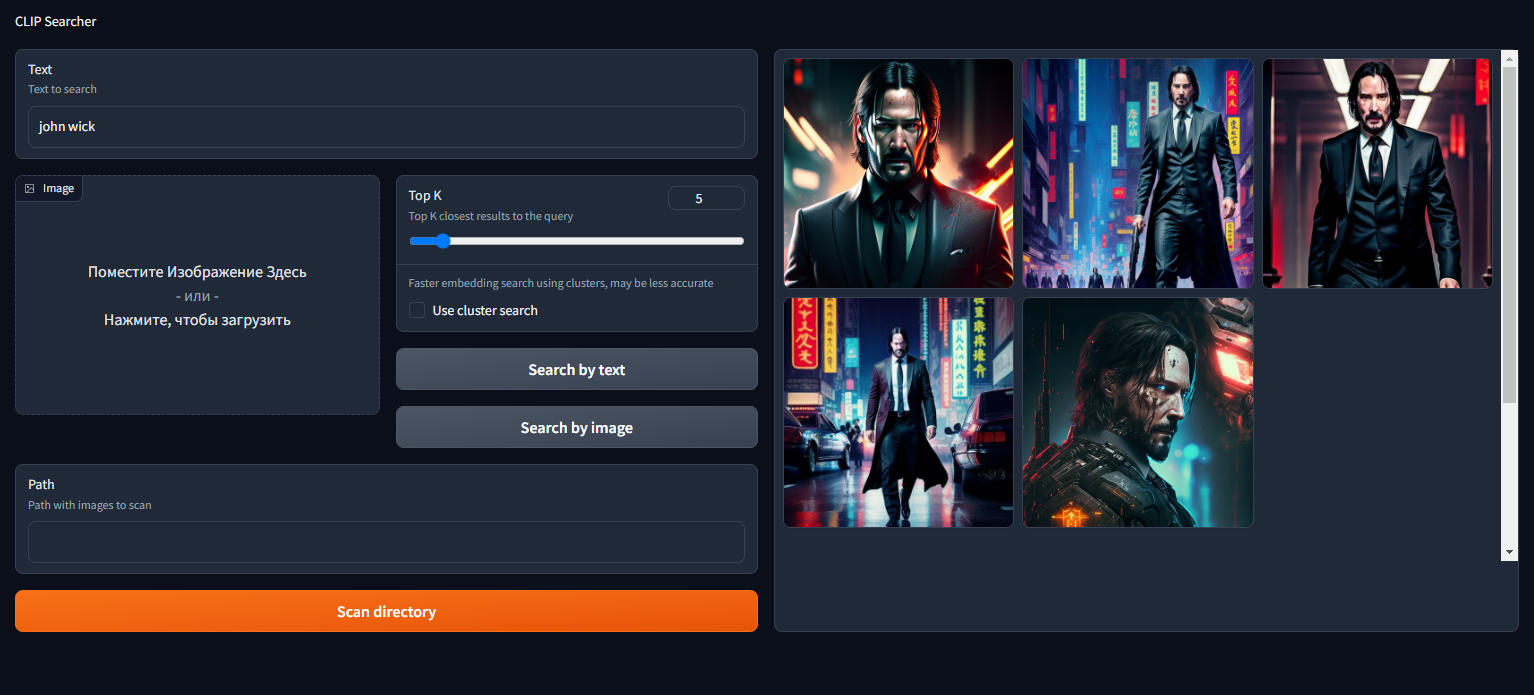
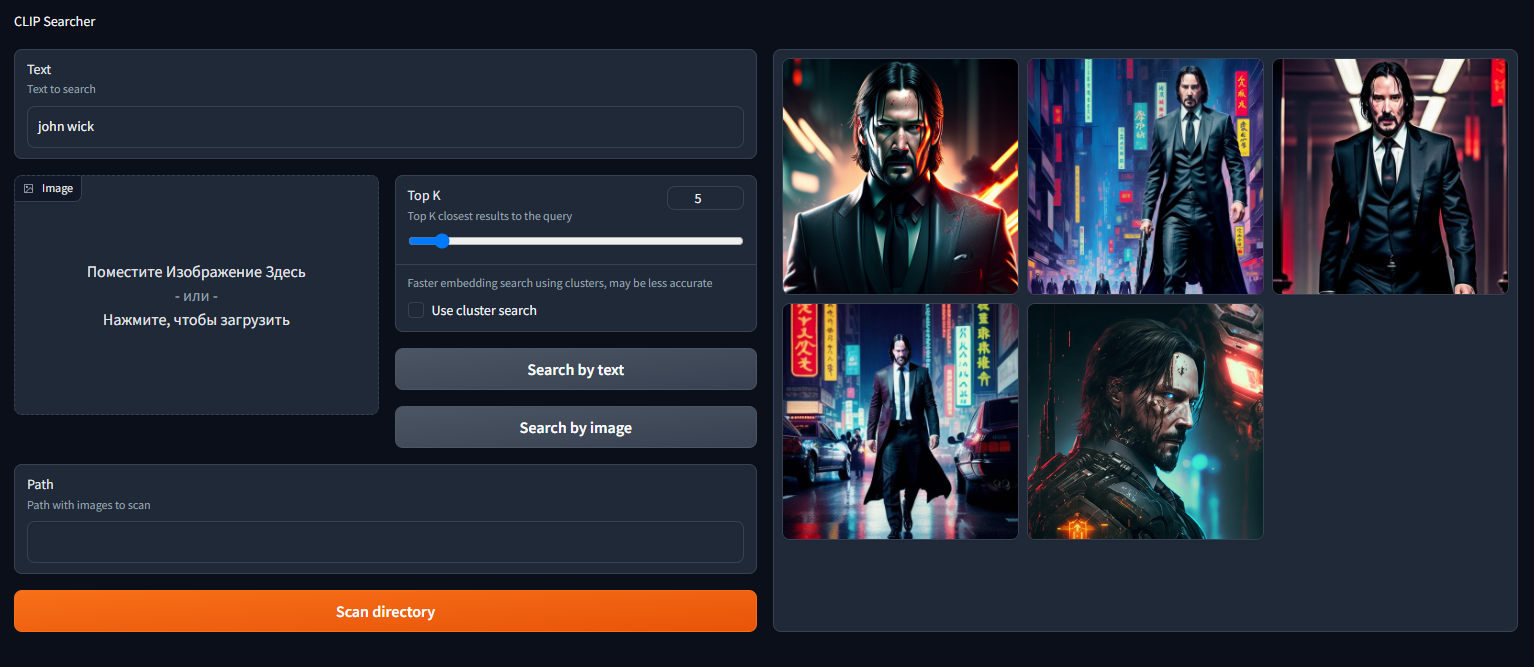
edit main.py, screen image

diff --git a/main.py b/main.py
@@ -75,7 +75,7 @@ with gr.Blocks() as webui:
             scan_dir_btn = gr.Button("Scan directory", variant="primary")
 
   
-        gallery = gr.Gallery(label = "Gallery", show_label=False).style(columns=3, rows = 3, height="auto", preview = False)
+        gallery = gr.Gallery(label = "Gallery", show_label=False).style(columns=3, rows = 2, height="auto", preview = False)
 
     search_by_text_btn.click(
         search_by_text, 
